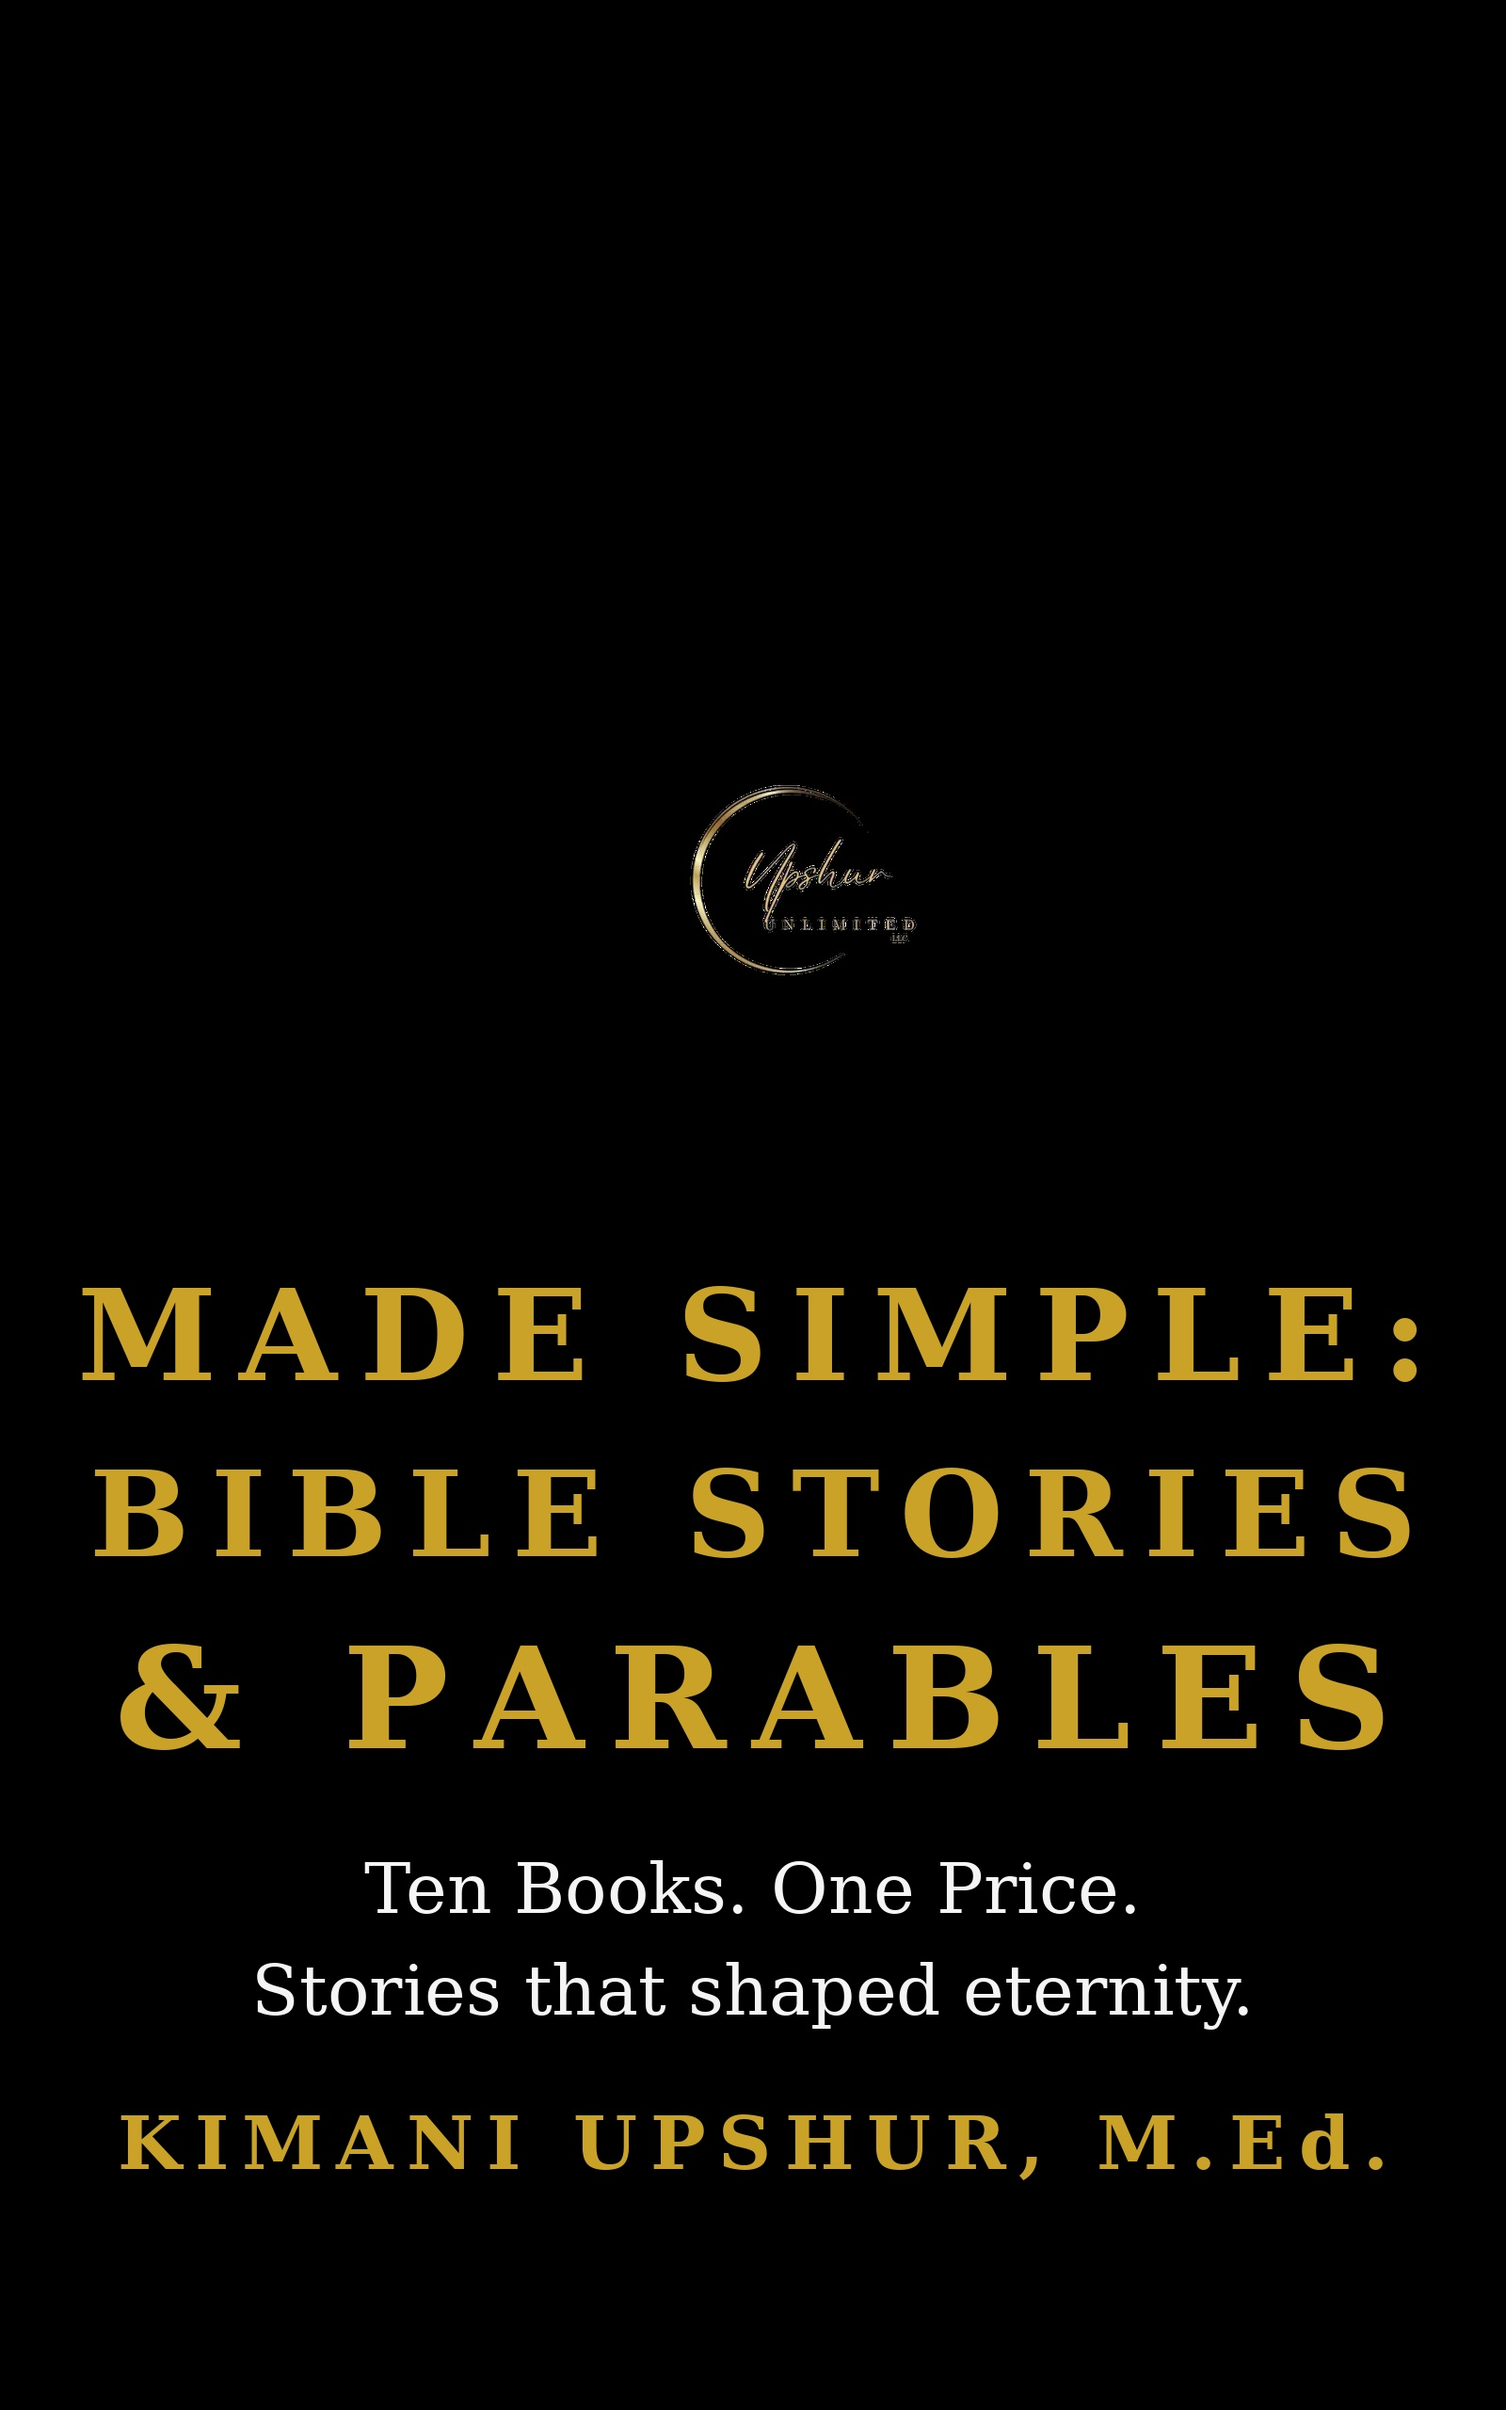
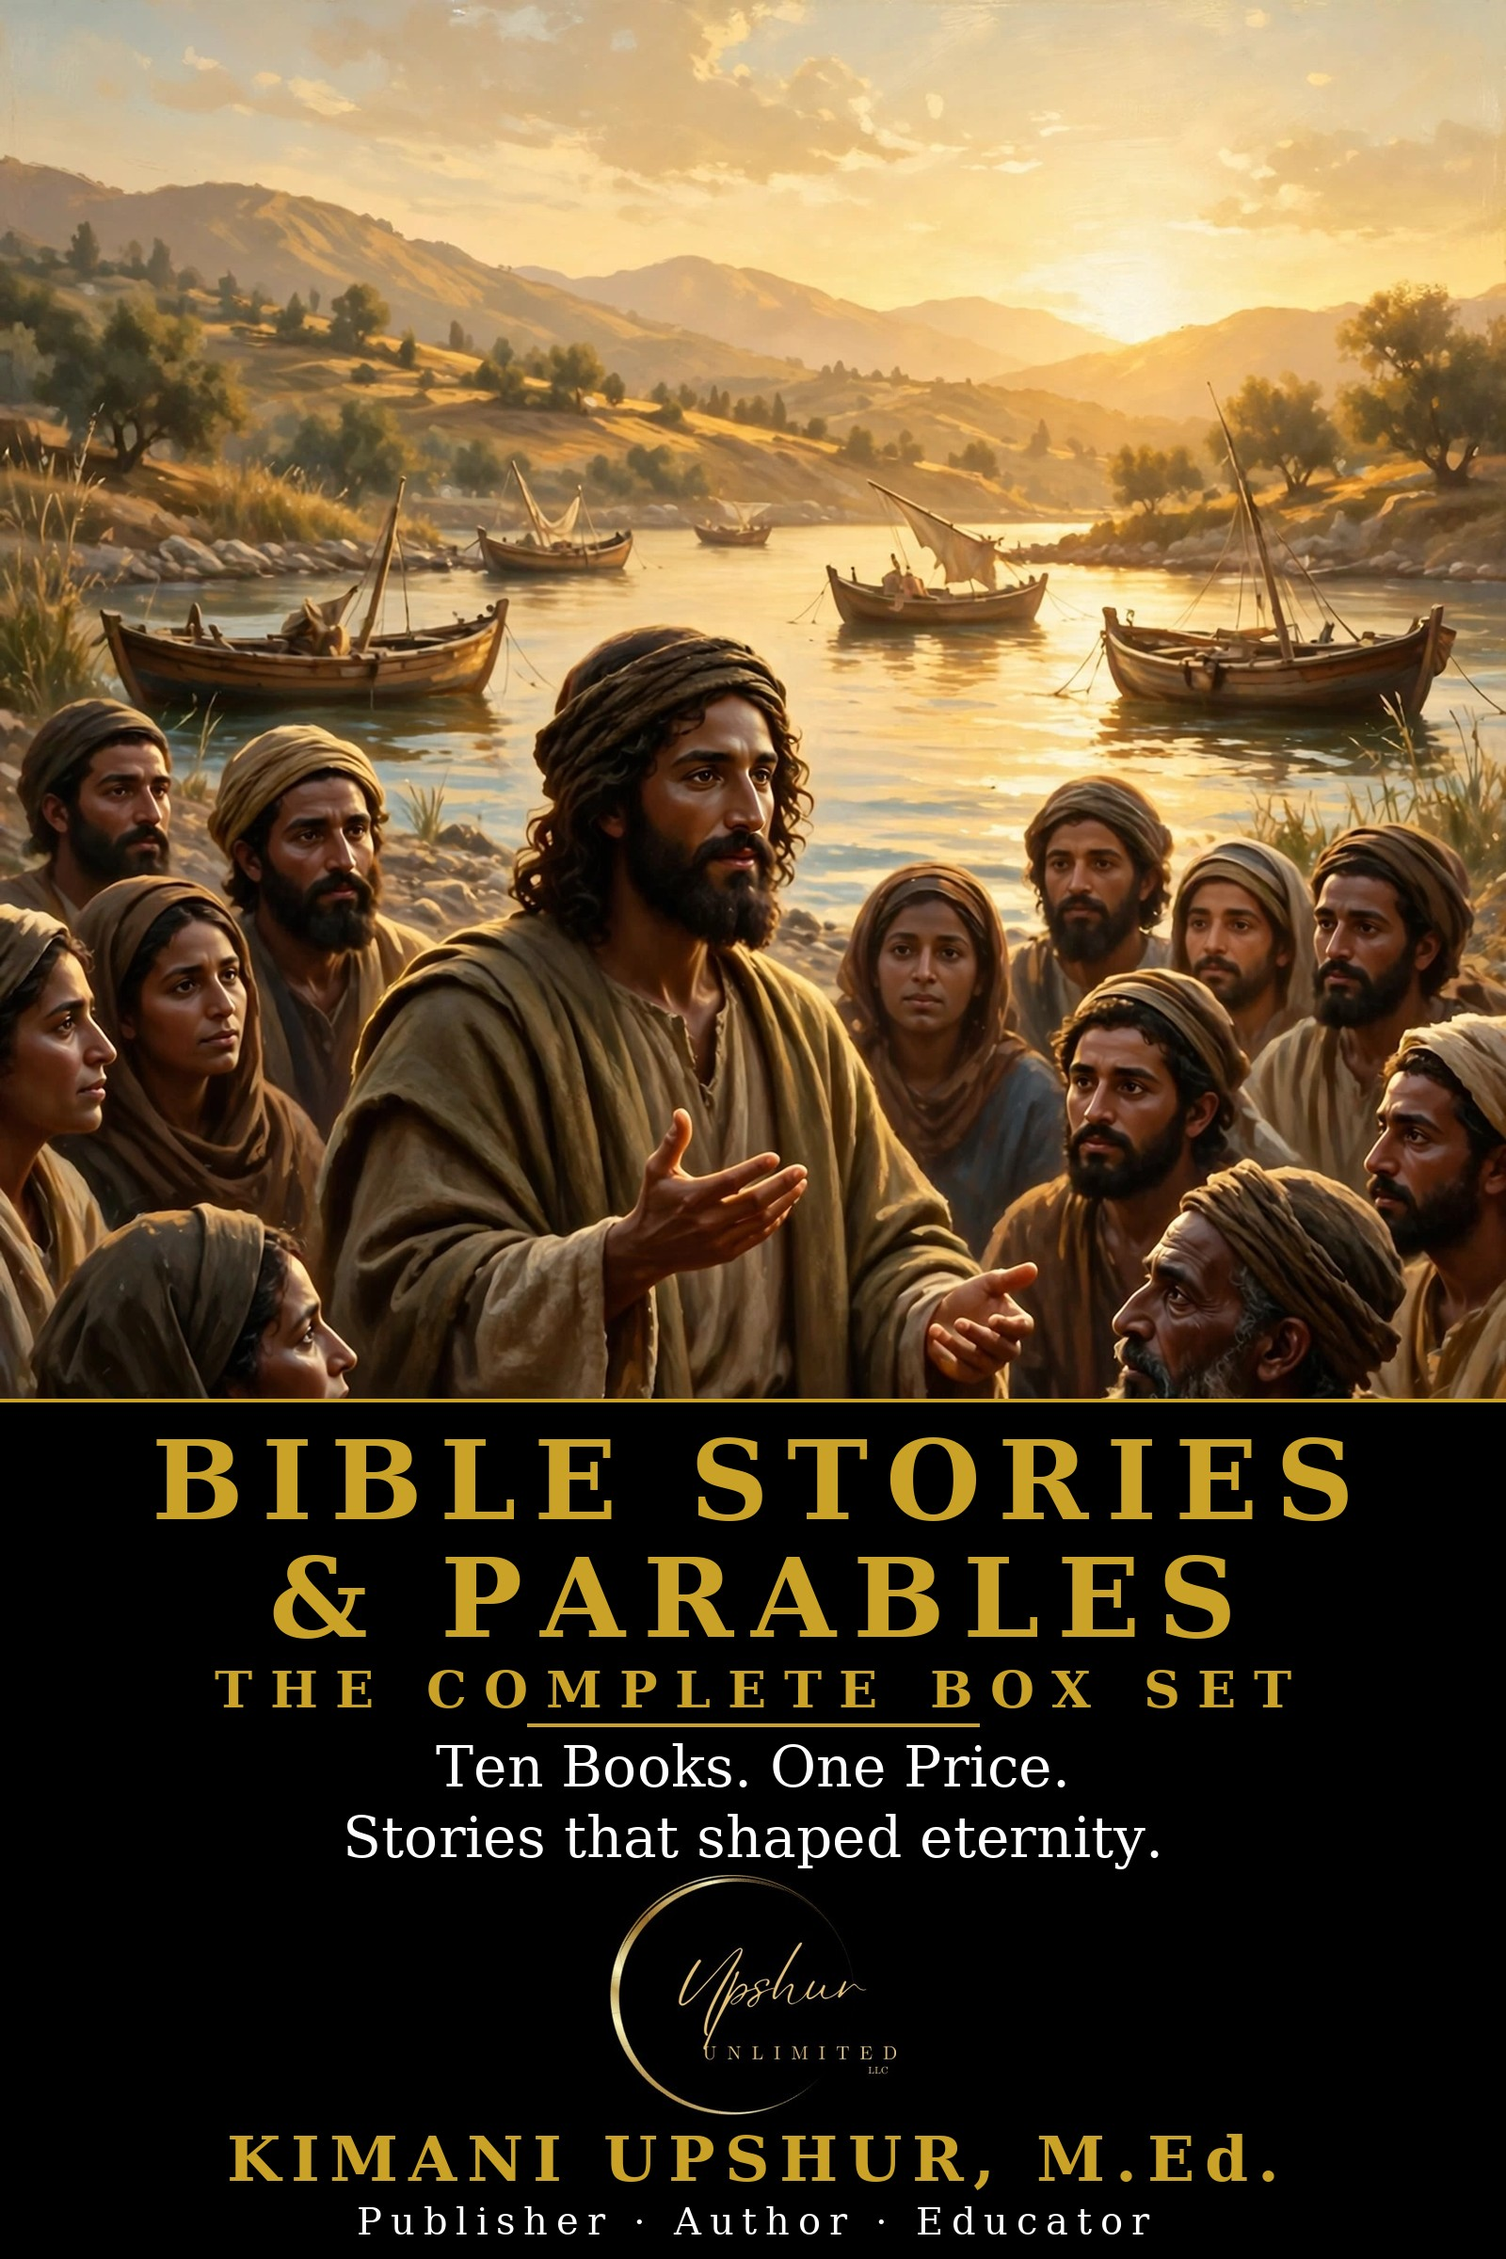
Box set covers: new owner-approved art on 9 titles (hash-verified)

diff --git a/books/prayer-worship-the-complete-box-set/index.html b/books/prayer-worship-the-complete-box-set/index.html
@@ -115,7 +115,7 @@ footer .fine p,footer .fine a{color:#9AA5B3}
 <main class="page"><div class="wrap">
 <p class="bread"><a href="/">Home</a> / <a href="/books/">Books</a> / <a href="/categories/box-sets/">Box Sets &amp; Collections</a></p>
 <h1>Made Simple: Prayer &amp; Worship — The Complete Box Set</h1>
-<figure class="cover" style="margin:6px 0 18px"><img src="cover.jpg" onerror="this.style.display='none'" alt="Made Simple: Prayer &amp; Worship — The Complete Box Set book cover by Kimani Upshur, M.Ed." width="1600" height="2560" loading="lazy" style="max-width:280px;width:100%;height:auto;border-radius:10px;border:2px solid #D4AF63"></figure>
+<figure class="cover" style="margin:6px 0 18px"><img src="cover.jpg" onerror="this.style.display='none'" alt="Made Simple: Prayer &amp; Worship — The Complete Box Set book cover by Kimani Upshur, M.Ed." width="1600" height="2400" loading="lazy" style="max-width:280px;width:100%;height:auto;border-radius:10px;border:2px solid #D4AF63"></figure>
 <p class="byline">by Kimani Upshur, M.Ed.</p>
 <div class="tags"><a class="tagpill" href="/categories/box-sets/">Box Sets &amp; Collections</a><a class="tagpill" href="/categories/cluster-box-set/">Box Set</a></div>
 <p class="desc">Ten books on meeting with God — worship, meditation, silence, solitude, intercession, retreat, and the sacraments — for a deeper devotional life. Retreat, The Lord&#x27;s Supper, Worship, Meditation, Silence, Intercession, Communion, Baptism, Pilgrimage, and Solitude — ten bestselling Made Simple books in one volume, for less than the cost of the books individually. Every Made Simple book is written from a Christian worldview: Scripture first, practical always.</p>

diff --git a/books/bible-characters-the-complete-box-set/index.html b/books/bible-characters-the-complete-box-set/index.html
@@ -115,7 +115,7 @@ footer .fine p,footer .fine a{color:#9AA5B3}
 <main class="page"><div class="wrap">
 <p class="bread"><a href="/">Home</a> / <a href="/books/">Books</a> / <a href="/categories/box-sets/">Box Sets &amp; Collections</a></p>
 <h1>Made Simple: Bible Characters — The Complete Box Set</h1>
-<figure class="cover" style="margin:6px 0 18px"><img src="cover.jpg" onerror="this.style.display='none'" alt="Made Simple: Bible Characters — The Complete Box Set book cover by Kimani Upshur, M.Ed." width="1600" height="2560" loading="lazy" style="max-width:280px;width:100%;height:auto;border-radius:10px;border:2px solid #D4AF63"></figure>
+<figure class="cover" style="margin:6px 0 18px"><img src="cover.jpg" onerror="this.style.display='none'" alt="Made Simple: Bible Characters — The Complete Box Set book cover by Kimani Upshur, M.Ed." width="1600" height="2400" loading="lazy" style="max-width:280px;width:100%;height:auto;border-radius:10px;border:2px solid #D4AF63"></figure>
 <p class="byline">by Kimani Upshur, M.Ed.</p>
 <div class="tags"><a class="tagpill" href="/categories/box-sets/">Box Sets &amp; Collections</a><a class="tagpill" href="/categories/cluster-box-set/">Box Set</a></div>
 <p class="desc">Ten books on the men and women of Scripture — their triumphs, their failures, and what their stories teach us about walking with God today. Samuel, Mary Magdalene, Ruth, Nehemiah, Solomon, Moses, Peter, David, Paul, and Joseph — ten bestselling Made Simple books in one volume, for less than the cost of the books individually. Every Made Simple book is written from a Christian worldview: Scripture first, practical always.</p>

diff --git a/books/spiritual-warfare-trials-the-complete-box-set/index.html b/books/spiritual-warfare-trials-the-complete-box-set/index.html
@@ -159,7 +159,7 @@ footer .fine p,footer .fine a{color:#9AA5B3}
 <p class="bread"><a href="/">Home</a> / <a href="/books/">Books</a></p>
 <h1>Made Simple: Spiritual Warfare &amp; Trials — The Complete Box Set</h1>
 <p class="byline">by Kimani Upshur, M.Ed.</p>
-<figure class="cover" style="margin:6px 0 18px"><img src="cover.jpg" onerror="this.style.display='none'" alt="Made Simple: Spiritual Warfare &amp; Trials — The Complete Box Set book cover by Kimani Upshur, M.Ed." width="1600" height="2560" loading="lazy" style="max-width:280px;width:100%;height:auto;border-radius:10px;border:2px solid #D4AF63"></figure>
+<figure class="cover" style="margin:6px 0 18px"><img src="cover.jpg" onerror="this.style.display='none'" alt="Made Simple: Spiritual Warfare &amp; Trials — The Complete Box Set book cover by Kimani Upshur, M.Ed." width="1600" height="2400" loading="lazy" style="max-width:280px;width:100%;height:auto;border-radius:10px;border:2px solid #D4AF63"></figure>
 
 <p class="desc">Made Simple: Spiritual Warfare &amp; Trials — The Complete Box Set
 by Kimani Upshur, M.Ed.

diff --git a/books/bible-stories-parables-the-complete-box-set/index.html b/books/bible-stories-parables-the-complete-box-set/index.html
@@ -159,7 +159,7 @@ footer .fine p,footer .fine a{color:#9AA5B3}
 <p class="bread"><a href="/">Home</a> / <a href="/books/">Books</a></p>
 <h1>Made Simple: Bible Stories &amp; Parables — The Complete Box Set</h1>
 <p class="byline">by Kimani Upshur, M.Ed.</p>
-<figure class="cover" style="margin:6px 0 18px"><img src="cover.jpg" onerror="this.style.display='none'" alt="Made Simple: Bible Stories &amp; Parables — The Complete Box Set book cover by Kimani Upshur, M.Ed." width="1600" height="2560" loading="lazy" style="max-width:280px;width:100%;height:auto;border-radius:10px;border:2px solid #D4AF63"></figure>
+<figure class="cover" style="margin:6px 0 18px"><img src="cover.jpg" onerror="this.style.display='none'" alt="Made Simple: Bible Stories &amp; Parables — The Complete Box Set book cover by Kimani Upshur, M.Ed." width="1600" height="2400" loading="lazy" style="max-width:280px;width:100%;height:auto;border-radius:10px;border:2px solid #D4AF63"></figure>
 
 <p class="desc">Made Simple: Bible Stories &amp; Parables — The Complete Box Set
 by Kimani Upshur, M.Ed.

diff --git a/books/health-healing-the-complete-box-set/index.html b/books/health-healing-the-complete-box-set/index.html
@@ -159,7 +159,7 @@ footer .fine p,footer .fine a{color:#9AA5B3}
 <p class="bread"><a href="/">Home</a> / <a href="/books/">Books</a></p>
 <h1>Made Simple: Health &amp; Healing — The Complete Box Set</h1>
 <p class="byline">by Kimani Upshur, M.Ed.</p>
-<figure class="cover" style="margin:6px 0 18px"><img src="cover.jpg" onerror="this.style.display='none'" alt="Made Simple: Health &amp; Healing — The Complete Box Set book cover by Kimani Upshur, M.Ed." width="1600" height="2560" loading="lazy" style="max-width:280px;width:100%;height:auto;border-radius:10px;border:2px solid #D4AF63"></figure>
+<figure class="cover" style="margin:6px 0 18px"><img src="cover.jpg" onerror="this.style.display='none'" alt="Made Simple: Health &amp; Healing — The Complete Box Set book cover by Kimani Upshur, M.Ed." width="1600" height="2400" loading="lazy" style="max-width:280px;width:100%;height:auto;border-radius:10px;border:2px solid #D4AF63"></figure>
 
 <p class="desc">Made Simple: Health &amp; Healing — The Complete Box Set
 by Kimani Upshur, M.Ed.

diff --git a/books/books-of-the-bible-the-complete-box-set/index.html b/books/books-of-the-bible-the-complete-box-set/index.html
@@ -159,7 +159,7 @@ footer .fine p,footer .fine a{color:#9AA5B3}
 <p class="bread"><a href="/">Home</a> / <a href="/books/">Books</a></p>
 <h1>Made Simple: Books of the Bible — The Complete Box Set</h1>
 <p class="byline">by Kimani Upshur, M.Ed.</p>
-<figure class="cover" style="margin:6px 0 18px"><img src="cover.jpg" onerror="this.style.display='none'" alt="Made Simple: Books of the Bible — The Complete Box Set book cover by Kimani Upshur, M.Ed." width="1600" height="2560" loading="lazy" style="max-width:280px;width:100%;height:auto;border-radius:10px;border:2px solid #D4AF63"></figure>
+<figure class="cover" style="margin:6px 0 18px"><img src="cover.jpg" onerror="this.style.display='none'" alt="Made Simple: Books of the Bible — The Complete Box Set book cover by Kimani Upshur, M.Ed." width="1600" height="2400" loading="lazy" style="max-width:280px;width:100%;height:auto;border-radius:10px;border:2px solid #D4AF63"></figure>
 
 <p class="desc">Made Simple: Books of the Bible — The Complete Box Set
 by Kimani Upshur, M.Ed.

diff --git a/books/christian-virtues-the-complete-box-set/index.html b/books/christian-virtues-the-complete-box-set/index.html
@@ -159,7 +159,7 @@ footer .fine p,footer .fine a{color:#9AA5B3}
 <p class="bread"><a href="/">Home</a> / <a href="/books/">Books</a></p>
 <h1>Made Simple: Christian Virtues — The Complete Box Set</h1>
 <p class="byline">by Kimani Upshur, M.Ed.</p>
-<figure class="cover" style="margin:6px 0 18px"><img src="cover.jpg" onerror="this.style.display='none'" alt="Made Simple: Christian Virtues — The Complete Box Set book cover by Kimani Upshur, M.Ed." width="1600" height="2560" loading="lazy" style="max-width:280px;width:100%;height:auto;border-radius:10px;border:2px solid #D4AF63"></figure>
+<figure class="cover" style="margin:6px 0 18px"><img src="cover.jpg" onerror="this.style.display='none'" alt="Made Simple: Christian Virtues — The Complete Box Set book cover by Kimani Upshur, M.Ed." width="1600" height="2400" loading="lazy" style="max-width:280px;width:100%;height:auto;border-radius:10px;border:2px solid #D4AF63"></figure>
 
 <p class="desc">Made Simple: Christian Virtues — The Complete Box Set
 by Kimani Upshur, M.Ed.

diff --git a/books/mindset-reset-the-complete-box-set/index.html b/books/mindset-reset-the-complete-box-set/index.html
@@ -159,7 +159,7 @@ footer .fine p,footer .fine a{color:#9AA5B3}
 <p class="bread"><a href="/">Home</a> / <a href="/books/">Books</a></p>
 <h1>Made Simple: Mindset Reset — The Complete Box Set</h1>
 <p class="byline">by Kimani Upshur, M.Ed.</p>
-<figure class="cover" style="margin:6px 0 18px"><img src="cover.jpg" onerror="this.style.display='none'" alt="Made Simple: Mindset Reset — The Complete Box Set book cover by Kimani Upshur, M.Ed." width="1600" height="2560" loading="lazy" style="max-width:280px;width:100%;height:auto;border-radius:10px;border:2px solid #D4AF63"></figure>
+<figure class="cover" style="margin:6px 0 18px"><img src="cover.jpg" onerror="this.style.display='none'" alt="Made Simple: Mindset Reset — The Complete Box Set book cover by Kimani Upshur, M.Ed." width="1600" height="2400" loading="lazy" style="max-width:280px;width:100%;height:auto;border-radius:10px;border:2px solid #D4AF63"></figure>
 
 <p class="desc">Made Simple: Mindset Reset — The Complete Box Set
 by Kimani Upshur, M.Ed.

diff --git a/books/knowing-god-the-complete-box-set/index.html b/books/knowing-god-the-complete-box-set/index.html
@@ -159,7 +159,7 @@ footer .fine p,footer .fine a{color:#9AA5B3}
 <p class="bread"><a href="/">Home</a> / <a href="/books/">Books</a></p>
 <h1>Made Simple: Knowing God — The Complete Box Set</h1>
 <p class="byline">by Kimani Upshur, M.Ed.</p>
-<figure class="cover" style="margin:6px 0 18px"><img src="cover.jpg" onerror="this.style.display='none'" alt="Made Simple: Knowing God — The Complete Box Set book cover by Kimani Upshur, M.Ed." width="1600" height="2560" loading="lazy" style="max-width:280px;width:100%;height:auto;border-radius:10px;border:2px solid #D4AF63"></figure>
+<figure class="cover" style="margin:6px 0 18px"><img src="cover.jpg" onerror="this.style.display='none'" alt="Made Simple: Knowing God — The Complete Box Set book cover by Kimani Upshur, M.Ed." width="1600" height="2400" loading="lazy" style="max-width:280px;width:100%;height:auto;border-radius:10px;border:2px solid #D4AF63"></figure>
 
 <p class="desc">Made Simple: Knowing God — The Complete Box Set
 by Kimani Upshur, M.Ed.
